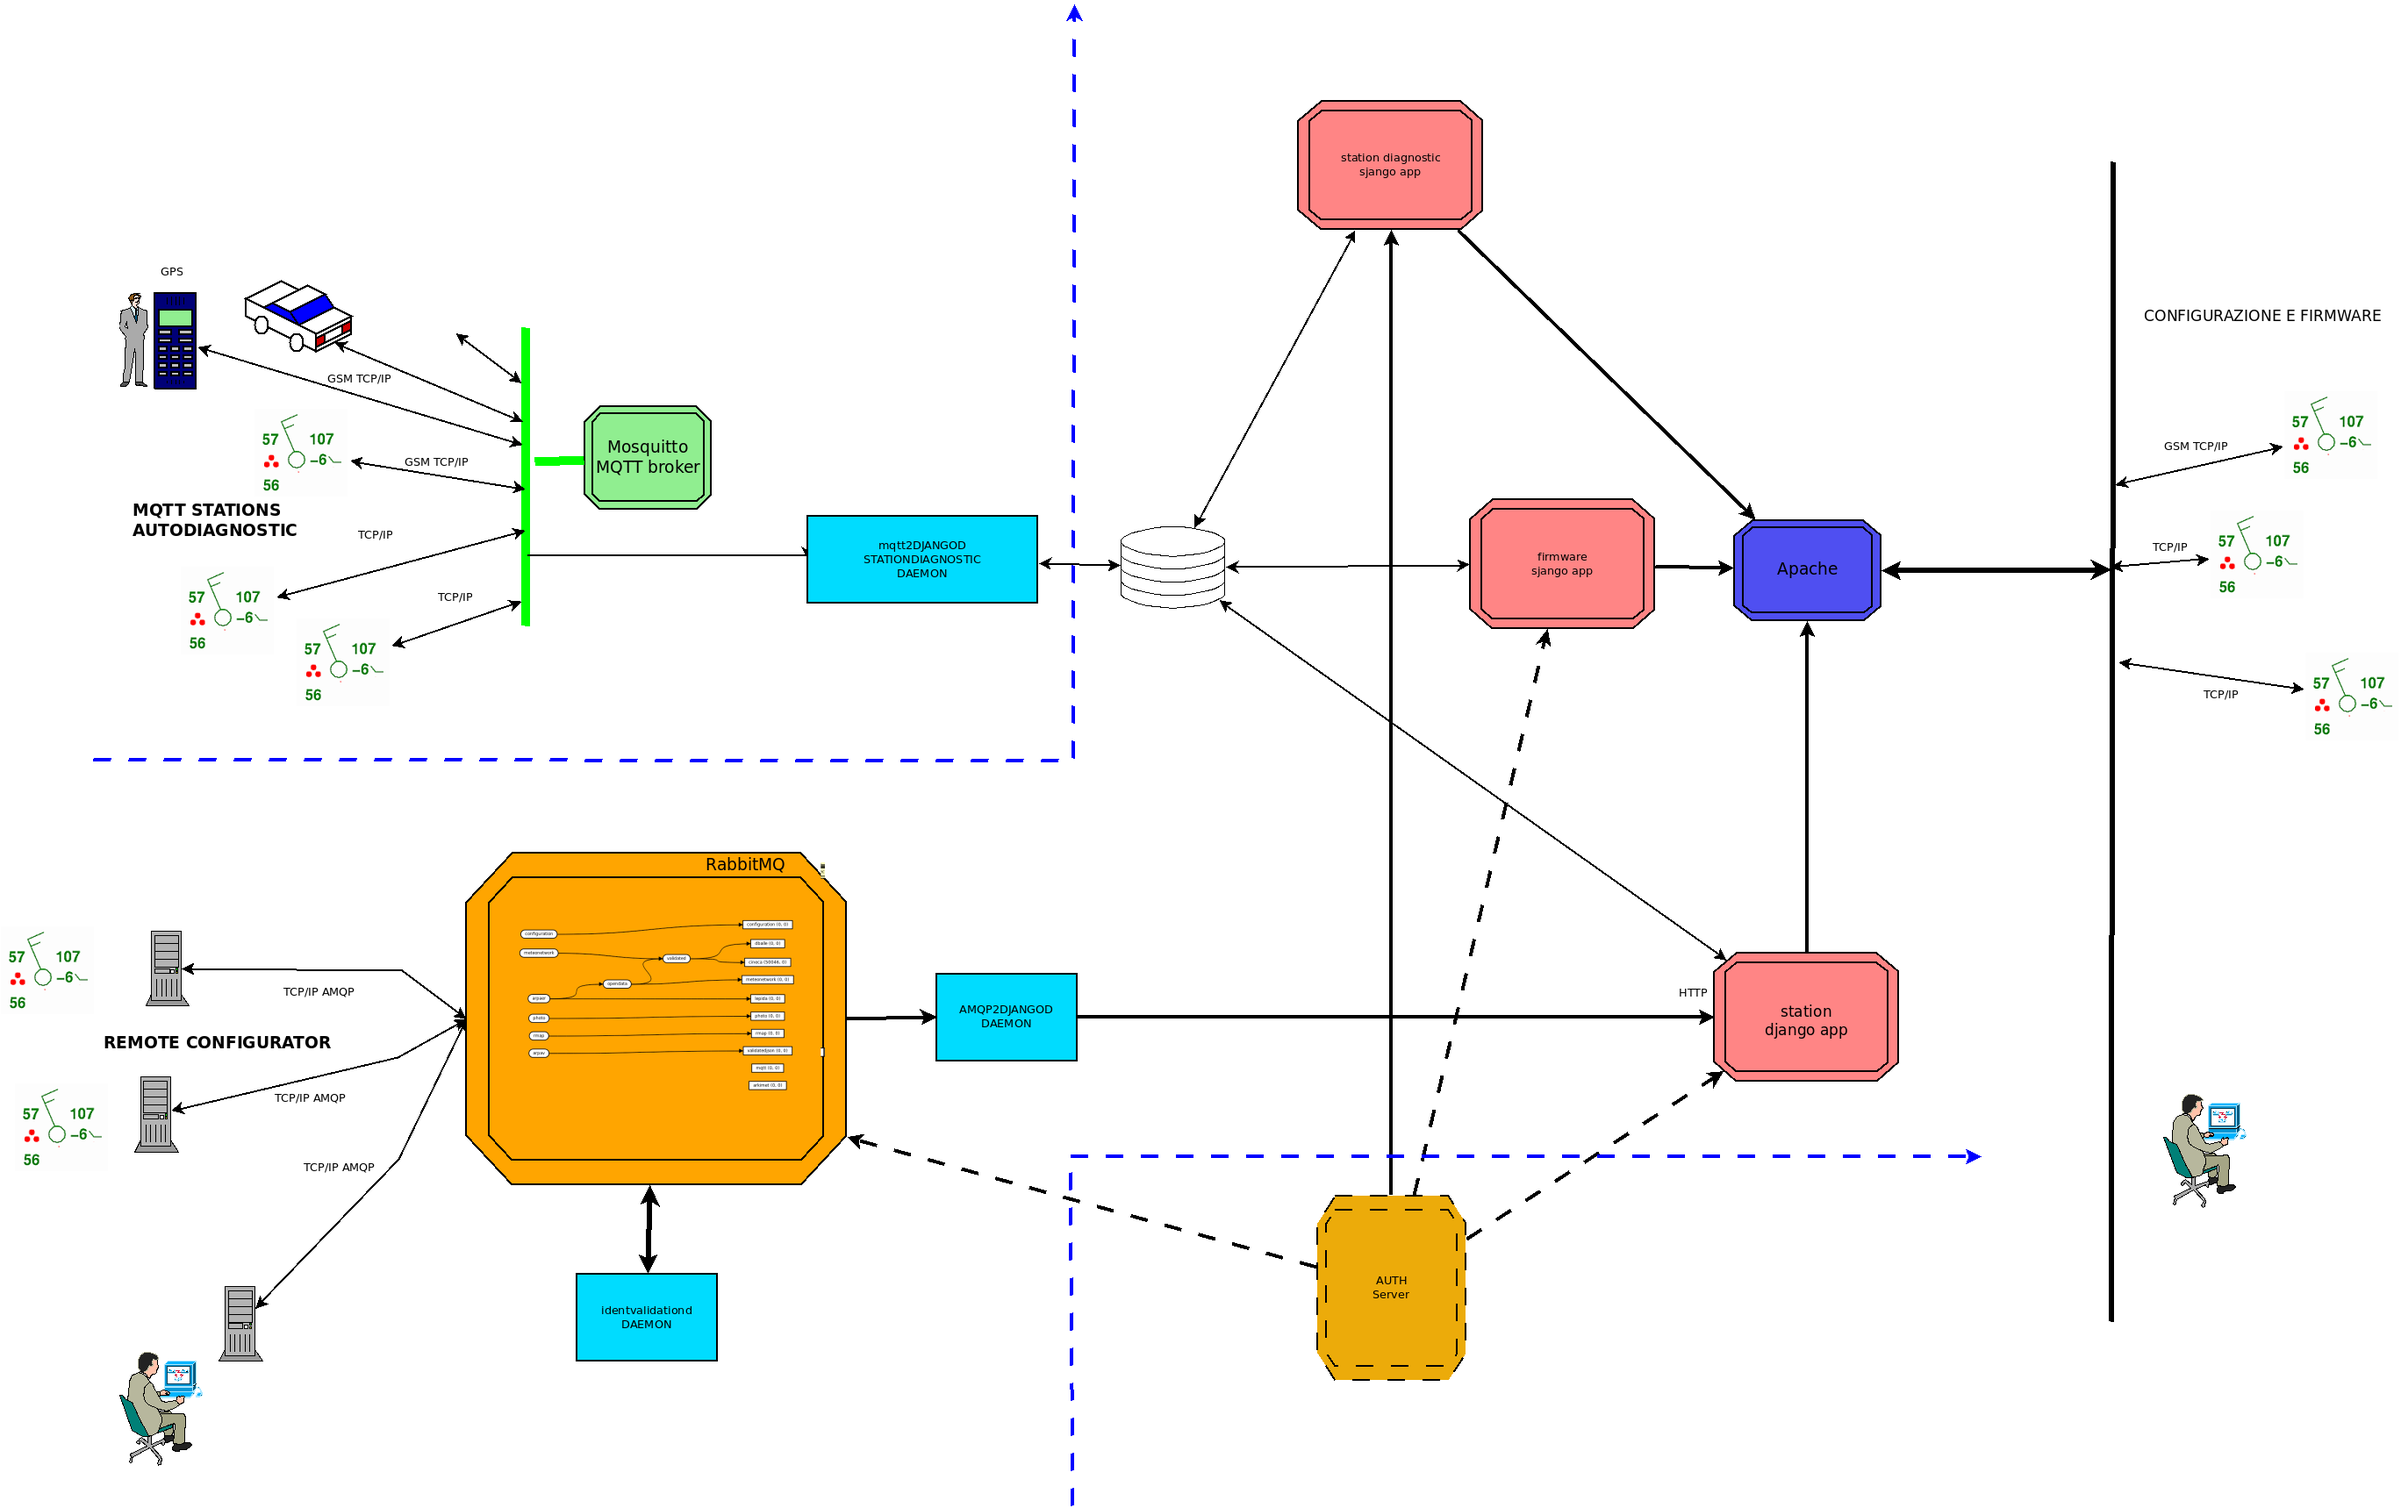
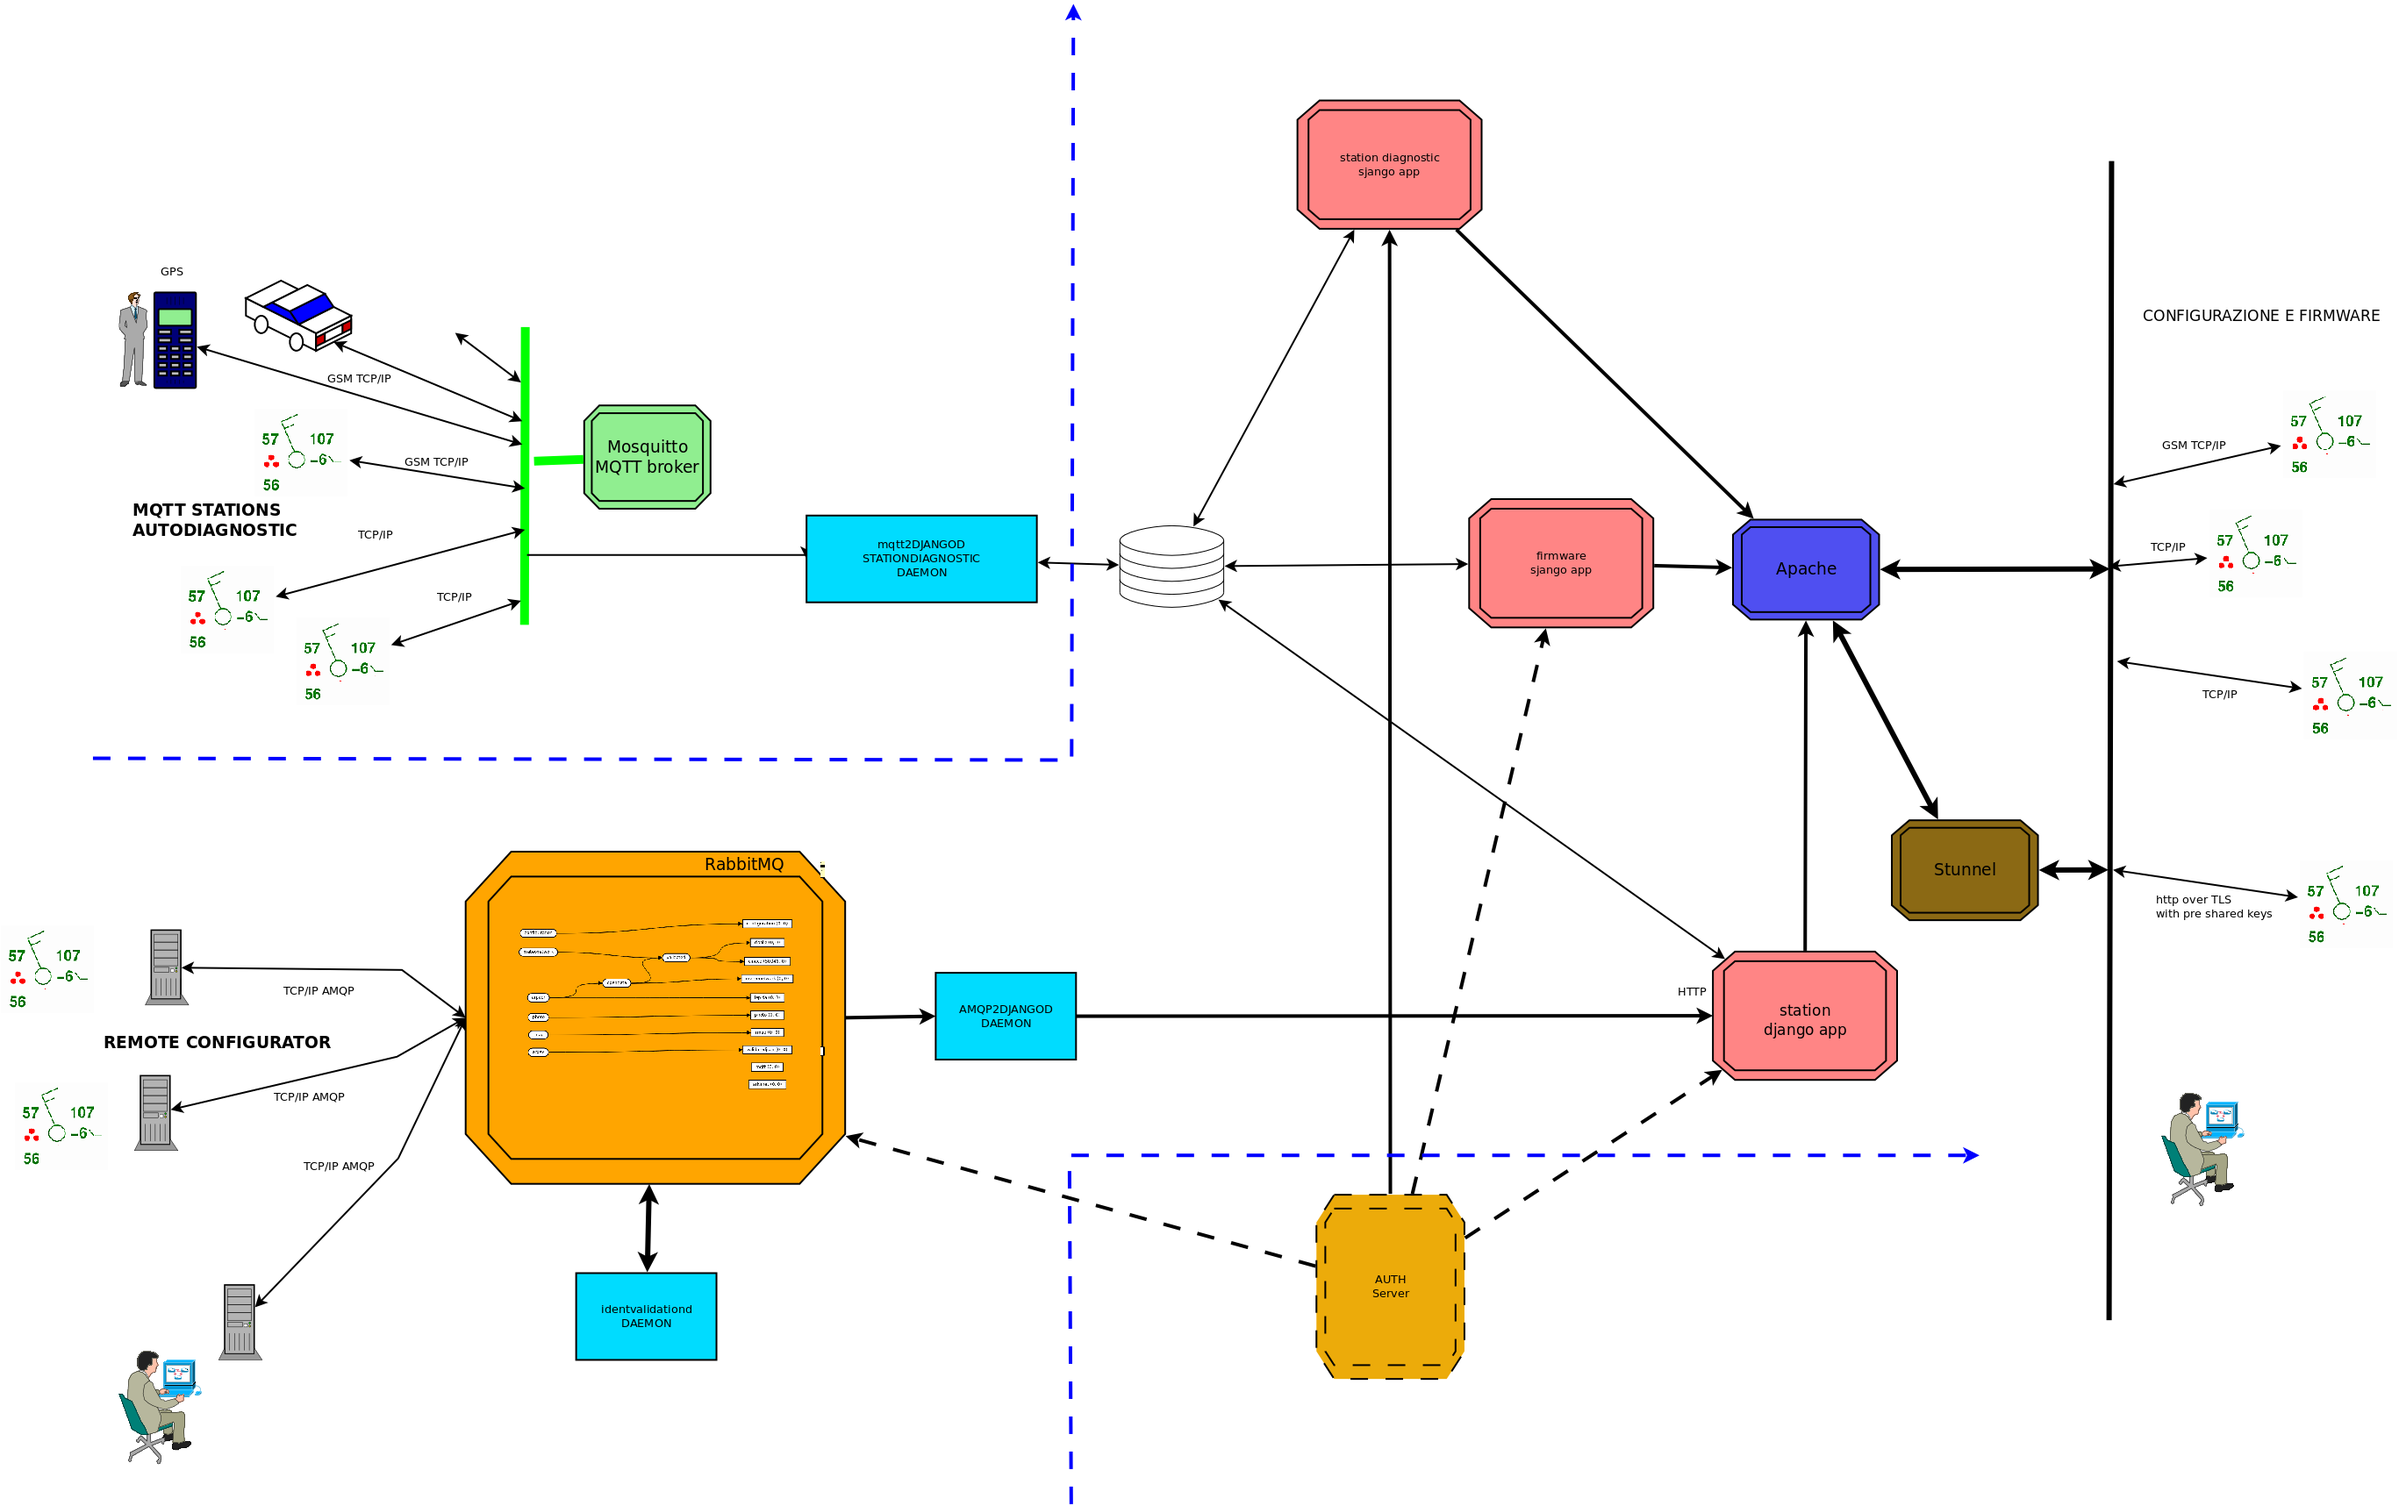
added stunnel documentation

diff --git a/doc/sphinx/server_rmap/server_rmap.rst b/doc/sphinx/server_rmap/server_rmap.rst
@@ -190,6 +190,7 @@ Aggiunta repository e installazione pacchetti
   dnf install python3-django-dynamic-map-borinud
   dnf install mosquitto mosquitto-auth-plug
   dnf install arkimet
+  dnf install stunnel
   useradd rmap
   
 /etc/selinux/config::
@@ -307,7 +308,28 @@ Collect static files from django apps:
    
    chkconfig httpd on``
    service httpd start``
+
+
+Stunnel
+.......
+
+Create file with psk keys:
+::
    
+   rmapctrl --exportmqttpsk > /etc/stunnel/file.psk
+
+   
+`/etc/stunnel/stunnel.conf <https://raw.githubusercontent.com/r-map/rmap/master/server/etc/stunnel/stunnel.conf>`_
+
+`/etc/cron.d/stunnel_presharedkey  <https://raw.githubusercontent.com/r-map/rmap/master/server/etc/cron.d/stunnel_presharedkey>`_
+
+
+::
+   
+   chkconfig stunnel on``
+   service stunnel start``
+
+
 Arkimet
 .......
 

diff --git a/doc/sphinx/rmap_rfc/rfc.rst b/doc/sphinx/rmap_rfc/rfc.rst
@@ -1632,9 +1632,7 @@ Riassuntivo di una misurazione in un dato mese:
 I dati restituiti sono analoghi a quelli restituiti con una richiesta
 dati fatto salvo che:
 - i dati non sono presenti ( "v": null )
-- il campo date è un array che riporta la data inizio presenza dati e
-  la data fine presenza dati ( "date": ["2023-02-15T00:00:00",
-  "2023-02-21T07:15:00"])
+- il campo date è un array che riporta la data inizio presenza dati e la data fine presenza dati ( "date": ["2023-02-15T00:00:00",  "2023-02-21T07:15:00"])
 
 Formati dati
 ------------
